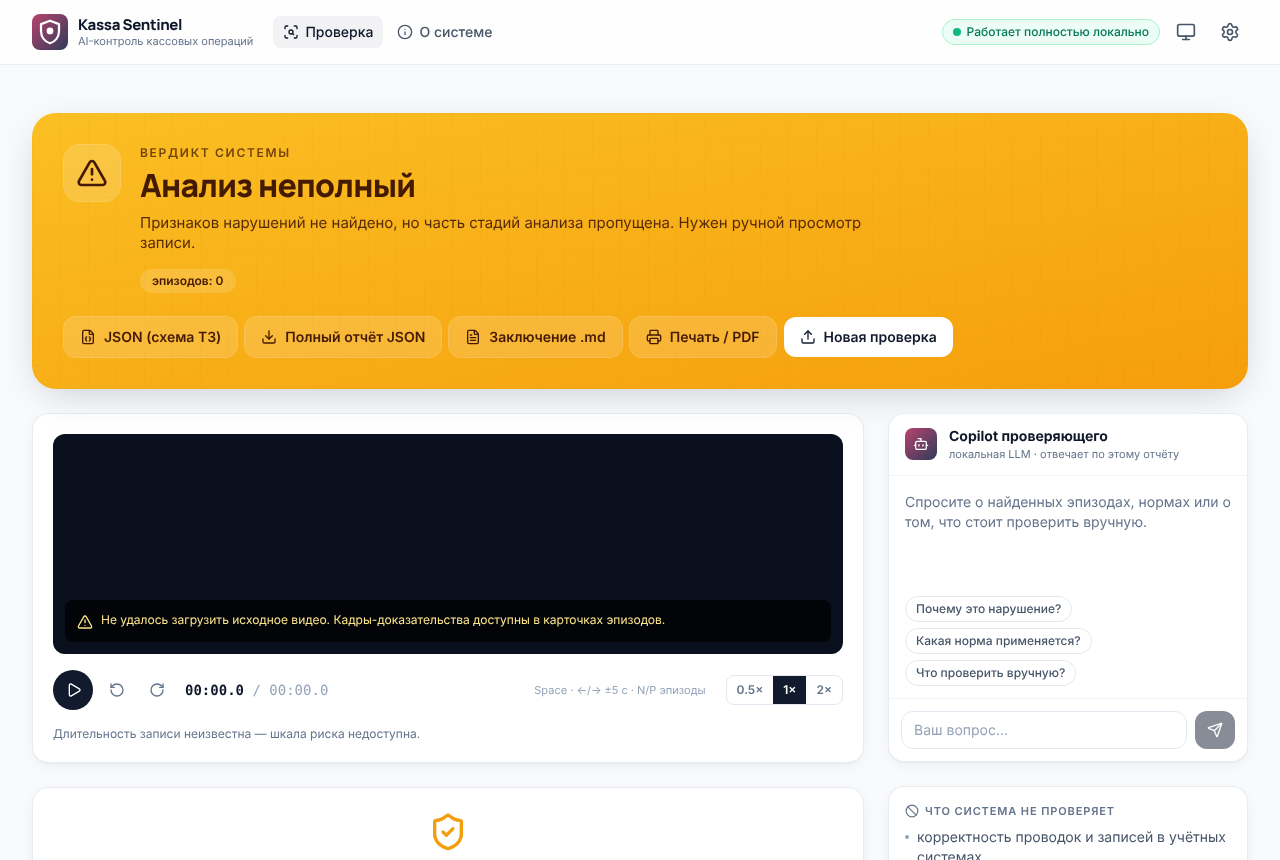
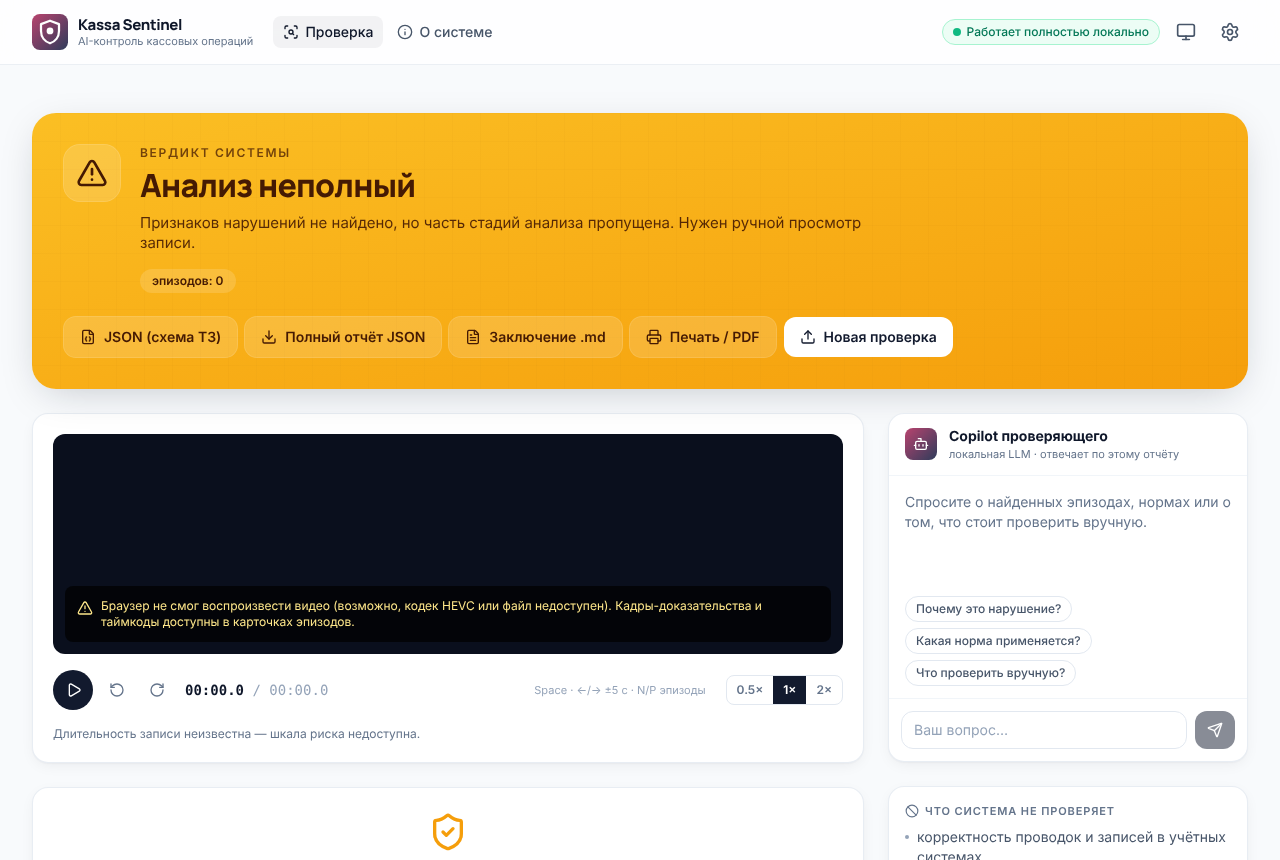
[A15] Video source chain (local → server preview → API blob), clear codec message; 503/507 texts
- freshly uploaded file plays locally; if the browser cannot decode it (e.g. HEVC), the player
  tries /ui/v1/jobs/{id}/video (A02 serves preview.mp4 when available), then API-key blob
- verified on A02: local blob fails -> server route 206 -> clear message, report stays usable
- friendlier messages for 503 (queue full / warming up) and 507 (disk)

Claude-Session: https://claude.ai/code/session_014UWdvMoLX7LZm1kzrQn1NJ

Changed region(s): [[0.0625, 0.6953, 0.5938, 0.7256]]

diff --git a/frontend/src/api/client.ts b/frontend/src/api/client.ts
@@ -86,7 +86,9 @@ export function messageForStatus(status: number, fallback = ""): string {
   if (status === 404) return "Задача не найдена на сервере (возможно, сервер перезапускался).";
   if (status === 413) return "Файл слишком большой для сервера.";
   if (status === 415 || status === 422) return fallback || "Сервер не принял файл: нужен видеофайл .mov или .mp4.";
-  if (status === 429) return "Сервер занят: слишком много задач. Повторите через минуту.";
+  if (status === 429) return "Слишком много запросов. Повторите через минуту.";
+  if (status === 503) return fallback || "Сервер перегружен: очередь задач заполнена или модели ещё загружаются. Повторите позже.";
+  if (status === 507) return "На сервере недостаточно места для загрузки.";
   if (status >= 500) return fallback || "Ошибка сервера при обработке запроса.";
   if (status === 0) return "Нет связи с сервером.";
   return fallback || `Ошибка запроса (HTTP ${status}).`;
@@ -123,8 +125,8 @@ export interface Backend {
   /** Текстовое заключение (Markdown) от A14; бросает ApiError, если недоступно. */
   report?(id: string): Promise<string>;
   ask(id: string, question: string, history: { role: "user" | "assistant"; text: string }[]): Promise<AskResponse>;
-  /** URL исходного видео для <video>. fallback — загрузка blob с X-API-Key, если cookie-маршрут не играет. */
-  videoSource(id: string): { url: string; fallback?: () => Promise<string> } | null;
+  /** URL исходного видео для <video>; fallbacks — запасные источники (blob с X-API-Key и т. п.). */
+  videoSource(id: string): { url: string; fallbacks?: (() => Promise<string>)[] } | null;
 }
 
 function sessionFromJson(info: Record<string, unknown>, authenticated: boolean): SessionInfo {
@@ -416,18 +418,21 @@ export class HttpBackend implements Backend {
     return { answer: typeof answer === "string" ? answer : JSON.stringify(j), sources };
   }
 
-  videoSource(id: string): { url: string; fallback?: () => Promise<string> } {
+  videoSource(id: string): { url: string; fallbacks?: (() => Promise<string>)[] } {
     // Основной путь — cookie UI-маршрут с Range: <video> шлёт cookie сам, ключ в URL не попадает.
+    // A02 отдаёт по нему preview.mp4 (если пайплайн перекодировал исходник), иначе оригинал.
     const apiPath = ENDPOINTS.apiVideo(id);
     return {
       url: this.url(ENDPOINTS.uiVideo(id)),
-      fallback: settings.apiKey
-        ? async () => {
-            const res = await fetch(this.url(apiPath), { headers: this.headers(apiPath), credentials: "same-origin" });
-            if (!res.ok) throw new ApiError(res.status, messageForStatus(res.status));
-            return URL.createObjectURL(await res.blob());
-          }
-        : undefined,
+      fallbacks: settings.apiKey
+        ? [
+            async () => {
+              const res = await fetch(this.url(apiPath), { headers: this.headers(apiPath), credentials: "same-origin" });
+              if (!res.ok) throw new ApiError(res.status, messageForStatus(res.status));
+              return URL.createObjectURL(await res.blob());
+            },
+          ]
+        : [],
     };
   }
 }

diff --git a/frontend/src/components/VideoPlayer.tsx b/frontend/src/components/VideoPlayer.tsx
@@ -10,8 +10,14 @@ export interface PlayerHandle {
   seek: (t: number, play?: boolean) => void;
 }
 
+export interface VideoSource {
+  url: string;
+  /** Запасные источники по порядку (напр. серверный маршрут с перекодированным preview.mp4, затем blob по ключу). */
+  fallbacks?: (() => Promise<string>)[];
+}
+
 interface Props {
-  source: { url: string; fallback?: () => Promise<string> } | null;
+  source: VideoSource | null;
   /** Синтетическая сцена вместо видео (только демо). */
   synthetic?: boolean;
   duration: number;
@@ -28,7 +34,7 @@ const VideoPlayer = forwardRef<PlayerHandle, Props>(function VideoPlayer(
 ) {
   const videoRef = useRef<HTMLVideoElement>(null);
   const [src, setSrc] = useState<string | null>(source?.url ?? null);
-  const [fallbackTried, setFallbackTried] = useState(false);
+  const [fallbackIdx, setFallbackIdx] = useState(0);
   const [error, setError] = useState<string | null>(null);
   const [loading, setLoading] = useState(!!source);
   const [t, setT] = useState(0);
@@ -40,7 +46,7 @@ const VideoPlayer = forwardRef<PlayerHandle, Props>(function VideoPlayer(
 
   useEffect(() => {
     setSrc(source?.url ?? null);
-    setFallbackTried(false);
+    setFallbackIdx(0);
     setError(null);
     setLoading(!!source);
   }, [source]);
@@ -128,17 +134,24 @@ const VideoPlayer = forwardRef<PlayerHandle, Props>(function VideoPlayer(
   toggleRef.current = toggle;
 
   const onVideoError = async () => {
-    if (source?.fallback && !fallbackTried) {
-      setFallbackTried(true);
+    const list = source?.fallbacks ?? [];
+    for (let i = fallbackIdx; i < list.length; i++) {
+      setFallbackIdx(i + 1);
       try {
-        setSrc(await source.fallback());
-        return;
+        const next = await list[i]();
+        if (next && next !== src) {
+          setLoading(true);
+          setSrc(next);
+          return;
+        }
       } catch {
-        /* ниже — сообщение */
+        /* следующий источник */
       }
     }
     setLoading(false);
-    setError("Не удалось загрузить исходное видео. Кадры-доказательства доступны в карточках эпизодов.");
+    setError(
+      "Браузер не смог воспроизвести видео (возможно, кодек HEVC или файл недоступен). Кадры-доказательства и таймкоды доступны в карточках эпизодов.",
+    );
   };
 
   const active = violations.findIndex(

diff --git a/frontend/src/components/ResultView.tsx b/frontend/src/components/ResultView.tsx
@@ -55,9 +55,12 @@ export default function ResultView({ job, raw, fileName }: { job: JobResult; raw
   const view = verdictView(job, partial);
   const duration = inferDuration(job);
   const source = useMemo(() => {
+    const server = backend.videoSource(job.job_id);
     const local = localVideo(job.job_id);
-    if (local) return { url: local };
-    return backend.videoSource(job.job_id);
+    // Только что загруженный файл играет сразу локально; если браузер его не декодирует (напр. HEVC) —
+    // пробуем серверный маршрут (может отдать перекодированный preview.mp4), затем запасные пути.
+    if (local) return { url: local, fallbacks: server ? [async () => server.url, ...(server.fallbacks ?? [])] : [] };
+    return server;
   }, [backend, job.job_id]);
   const onTime = useCallback((x: number) => setT(x), []);
 
